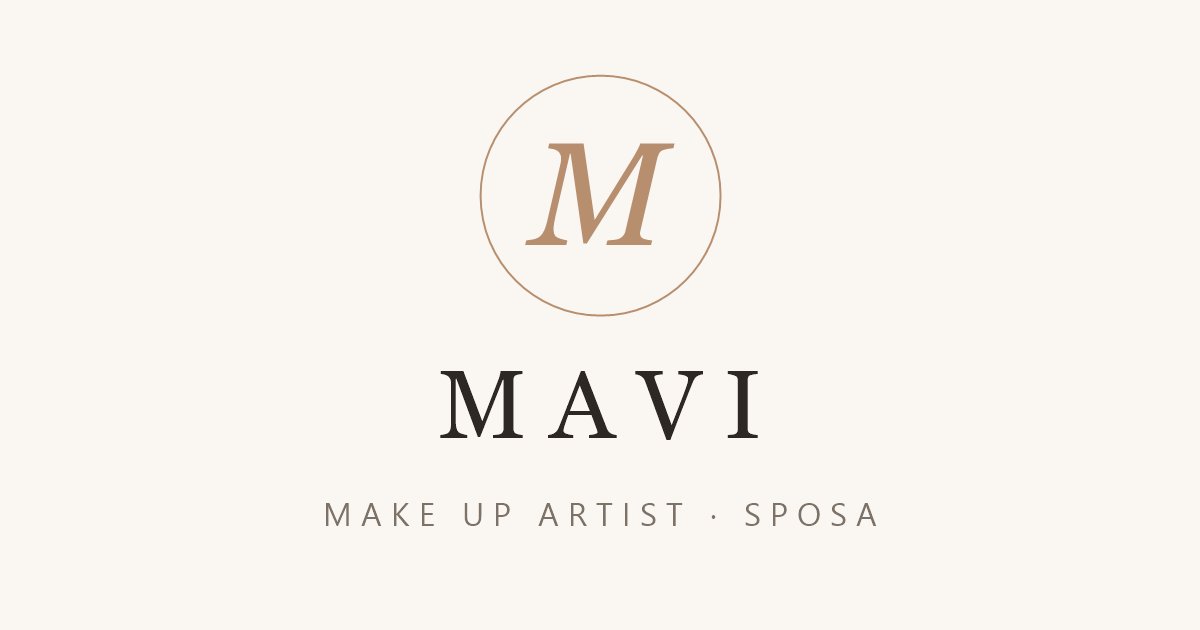
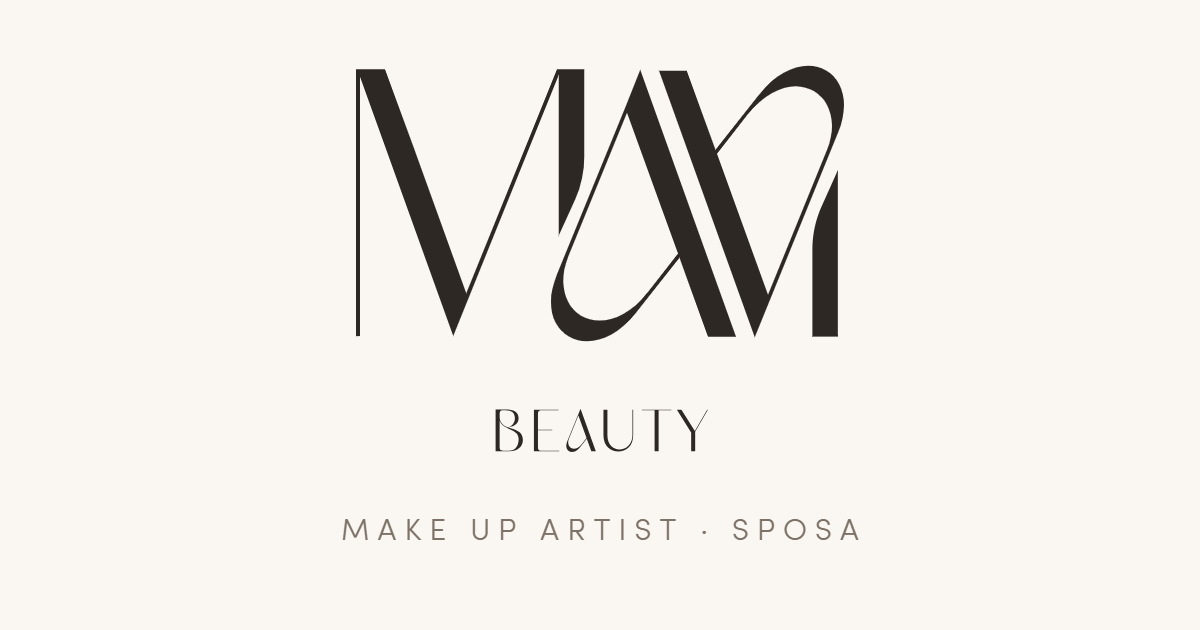
Applica il brand ufficiale MaVi Beauty: font e loghi
Font Nord (titoli), Sofia Pro (testi) e Ginger (accenti) al posto
di Cormorant/Jost, convertiti in woff2 e self-hosted su licenza
della cliente. Logo MaVi nell header e nella pagina in arrivo,
monogramma AV come favicon, og-image e apple-touch-icon rigenerate
col logo vero. Palette e stile invariati come richiesto.

diff --git a/css/style.css b/css/style.css
@@ -16,8 +16,11 @@
   --line:      #e6ddd1;
   --white:     #fffdfa;
 
-  --font-display: "Cormorant Garamond", Georgia, serif;
-  --font-body:    "Jost", "Segoe UI", sans-serif;
+  /* Font ufficiali brand (vedi css/fonts.css):
+     Nord = titoli · Sofia Pro = testi · Ginger = accenti grafici */
+  --font-display: "Nord", "Segoe UI", sans-serif;
+  --font-body:    "Sofia Pro", "Segoe UI", sans-serif;
+  --font-accent:  "Ginger", Georgia, serif;
 
   --maxw: 1120px;
   --ease: cubic-bezier(.22, .61, .36, 1);
@@ -41,8 +44,8 @@ ul { list-style: none; }
 
 h1, h2, h3 {
   font-family: var(--font-display);
-  font-weight: 500;
-  line-height: 1.15;
+  font-weight: 400;
+  line-height: 1.2;
 }
 
 .container {
@@ -122,13 +125,14 @@ h1, h2, h3 {
   justify-content: space-between;
 }
 
-.brand {
-  font-family: var(--font-display);
-  font-size: 1.5rem;
-  letter-spacing: .18em;
-  text-transform: uppercase;
+.brand { display: block; }
+.brand img {
+  height: 52px;
+  width: auto;
+  display: block;
+  transition: opacity .3s;
 }
-.brand span { color: var(--accent); }
+.brand:hover img { opacity: .8; }
 
 .nav-list {
   display: flex;
@@ -217,7 +221,8 @@ h1, h2, h3 {
   max-width: 12em;
 }
 .hero h1 em {
-  font-style: italic;
+  font-family: var(--font-accent);
+  font-style: normal;
   color: var(--accent);
 }
 .hero .lead { margin: 1.5rem auto 0; }
@@ -264,8 +269,7 @@ h1, h2, h3 {
   inset: 0;
   display: grid;
   place-items: center;
-  font-family: var(--font-display);
-  font-style: italic;
+  font-family: var(--font-accent);
   font-size: 1.05rem;
   color: rgba(46, 40, 37, .45);
   letter-spacing: .08em;
@@ -406,8 +410,7 @@ h1, h2, h3 {
   margin-bottom: .9rem;
 }
 .service-card .num {
-  font-family: var(--font-display);
-  font-style: italic;
+  font-family: var(--font-accent);
   color: var(--accent);
   font-size: 1rem;
   display: block;
@@ -451,8 +454,7 @@ h1, h2, h3 {
   background: var(--accent);
 }
 .timeline .year {
-  font-family: var(--font-display);
-  font-style: italic;
+  font-family: var(--font-accent);
   color: var(--accent);
   font-size: 1.1rem;
 }
@@ -466,10 +468,11 @@ h1, h2, h3 {
   margin-inline: auto;
 }
 .quote blockquote {
-  font-family: var(--font-display);
+  font-family: var(--font-body);
   font-style: italic;
-  font-size: clamp(1.5rem, 3.4vw, 2.2rem);
-  line-height: 1.4;
+  font-weight: 300;
+  font-size: clamp(1.4rem, 3vw, 1.9rem);
+  line-height: 1.5;
 }
 .quote cite {
   display: block;
@@ -531,7 +534,11 @@ h1, h2, h3 {
   max-width: 18em;
   margin-inline: auto;
 }
-.cta-band h2 em { font-style: italic; color: var(--accent-soft); }
+.cta-band h2 em {
+  font-family: var(--font-accent);
+  font-style: normal;
+  color: var(--accent-soft);
+}
 
 /* ---------- Footer ---------- */
 .site-footer {
@@ -566,35 +573,31 @@ h1, h2, h3 {
 .coming-inner { max-width: 34em; }
 
 .monogram {
-  width: 92px; height: 92px;
-  margin: 0 auto 2.2rem;
-  border: 1px solid var(--accent);
-  border-radius: 50%;
-  display: grid;
-  place-items: center;
-  font-family: var(--font-display);
-  font-size: 2.6rem;
-  font-style: italic;
-  color: var(--accent);
+  width: min(230px, 58vw);
+  margin: 0 auto 1.6rem;
   user-select: none;
   -webkit-user-select: none;
   -webkit-tap-highlight-color: transparent;
   cursor: default;
   transition: transform .2s var(--ease);
 }
-.monogram:active { transform: scale(.94); }
+.monogram img { width: 100%; display: block; }
+.monogram:active { transform: scale(.96); }
 
-.coming h1 {
-  font-size: clamp(2.2rem, 6vw, 3.6rem);
-  letter-spacing: .14em;
-  text-transform: uppercase;
+/* Testo solo per screen reader (il logo è l'elemento visivo) */
+.sr-only {
+  position: absolute;
+  width: 1px; height: 1px;
+  padding: 0; margin: -1px;
+  overflow: hidden;
+  clip: rect(0 0 0 0);
+  white-space: nowrap;
+  border: 0;
 }
-.coming h1 span { color: var(--accent); }
 
 .coming .tagline {
-  font-family: var(--font-display);
-  font-style: italic;
-  font-size: 1.3rem;
+  font-family: var(--font-accent);
+  font-size: 1.35rem;
   color: var(--muted);
   margin-top: .6rem;
 }
@@ -694,10 +697,11 @@ h1, h2, h3 {
   color: var(--accent-soft);
 }
 .testimonial p {
-  font-family: var(--font-display);
+  font-family: var(--font-body);
   font-style: italic;
-  font-size: 1.25rem;
-  line-height: 1.5;
+  font-weight: 300;
+  font-size: 1.08rem;
+  line-height: 1.6;
   flex: 1;
 }
 .testimonial footer {

diff --git a/css/fonts.css b/css/fonts.css
@@ -1,65 +1,60 @@
-/* Font self-hosted (subset latin) - generato da Google Fonts */
+/* ============================================================
+   Font ufficiali del brand MaVi Beauty (self-hosted).
+   Licenza d'uso della cliente — non redistribuire.
+   Dal brand manual:
+   - Ginger    → pochi elementi grafici (accenti, citazioni)
+   - Nord      → titoli ed elementi di rilievo
+   - Sofia Pro → testi e paragrafi
+   ============================================================ */
+
 @font-face {
-  font-family: 'Cormorant Garamond';
-  font-style: italic;
-  font-weight: 400;
-  font-display: swap;
-  src: url(../fonts/cormorant-garamond-italic-400.woff2) format('woff2');
-  unicode-range: U+0000-00FF, U+0131, U[phone redacted], U+02BB-02BC, U+02C6, U+02DA, U+02DC, U+0304, U+0308, U+0329, U+2000-206F, U+20AC, U+2122, U+2191, U+2193, U+2212, U+2215, U+FEFF, U+FFFD;
-}
-@font-face {
-  font-family: 'Cormorant Garamond';
-  font-style: italic;
-  font-weight: 500;
-  font-display: swap;
-  src: url(../fonts/cormorant-garamond-italic-500.woff2) format('woff2');
-  unicode-range: U+0000-00FF, U+0131, U[phone redacted], U+02BB-02BC, U+02C6, U+02DA, U+02DC, U+0304, U+0308, U+0329, U+2000-206F, U+20AC, U+2122, U+2191, U+2193, U+2212, U+2215, U+FEFF, U+FFFD;
-}
-@font-face {
-  font-family: 'Cormorant Garamond';
+  font-family: "Ginger";
   font-style: normal;
   font-weight: 400;
   font-display: swap;
-  src: url(../fonts/cormorant-garamond-normal-400.woff2) format('woff2');
-  unicode-range: U+0000-00FF, U+0131, U[phone redacted], U+02BB-02BC, U+02C6, U+02DA, U+02DC, U+0304, U+0308, U+0329, U+2000-206F, U+20AC, U+2122, U+2191, U+2193, U+2212, U+2215, U+FEFF, U+FFFD;
+  src: url(../fonts/ginger-normal-400.woff2) format("woff2");
+}
+
+@font-face {
+  font-family: "Nord";
+  font-style: normal;
+  font-weight: 400;
+  font-display: swap;
+  src: url(../fonts/nord-normal-400.woff2) format("woff2");
 }
 @font-face {
-  font-family: 'Cormorant Garamond';
+  font-family: "Nord";
   font-style: normal;
   font-weight: 500;
   font-display: swap;
-  src: url(../fonts/cormorant-garamond-normal-500.woff2) format('woff2');
-  unicode-range: U+0000-00FF, U+0131, U[phone redacted], U+02BB-02BC, U+02C6, U+02DA, U+02DC, U+0304, U+0308, U+0329, U+2000-206F, U+20AC, U+2122, U+2191, U+2193, U+2212, U+2215, U+FEFF, U+FFFD;
+  src: url(../fonts/nord-normal-500.woff2) format("woff2");
 }
+
 @font-face {
-  font-family: 'Cormorant Garamond';
-  font-style: normal;
-  font-weight: 600;
-  font-display: swap;
-  src: url(../fonts/cormorant-garamond-normal-600.woff2) format('woff2');
-  unicode-range: U+0000-00FF, U+0131, U[phone redacted], U+02BB-02BC, U+02C6, U+02DA, U+02DC, U+0304, U+0308, U+0329, U+2000-206F, U+20AC, U+2122, U+2191, U+2193, U+2212, U+2215, U+FEFF, U+FFFD;
-}
-@font-face {
-  font-family: 'Jost';
+  font-family: "Sofia Pro";
   font-style: normal;
   font-weight: 300;
   font-display: swap;
-  src: url(../fonts/jost-normal-300.woff2) format('woff2');
-  unicode-range: U+0000-00FF, U+0131, U[phone redacted], U+02BB-02BC, U+02C6, U+02DA, U+02DC, U+0304, U+0308, U+0329, U+2000-206F, U+20AC, U+2122, U+2191, U+2193, U+2212, U+2215, U+FEFF, U+FFFD;
+  src: url(../fonts/sofia-pro-normal-300.woff2) format("woff2");
 }
 @font-face {
-  font-family: 'Jost';
+  font-family: "Sofia Pro";
+  font-style: italic;
+  font-weight: 300;
+  font-display: swap;
+  src: url(../fonts/sofia-pro-italic-300.woff2) format("woff2");
+}
+@font-face {
+  font-family: "Sofia Pro";
   font-style: normal;
   font-weight: 400;
   font-display: swap;
-  src: url(../fonts/jost-normal-400.woff2) format('woff2');
-  unicode-range: U+0000-00FF, U+0131, U[phone redacted], U+02BB-02BC, U+02C6, U+02DA, U+02DC, U+0304, U+0308, U+0329, U+2000-206F, U+20AC, U+2122, U+2191, U+2193, U+2212, U+2215, U+FEFF, U+FFFD;
+  src: url(../fonts/sofia-pro-normal-400.woff2) format("woff2");
 }
 @font-face {
-  font-family: 'Jost';
+  font-family: "Sofia Pro";
   font-style: normal;
   font-weight: 500;
   font-display: swap;
-  src: url(../fonts/jost-normal-500.woff2) format('woff2');
-  unicode-range: U+0000-00FF, U+0131, U[phone redacted], U+02BB-02BC, U+02C6, U+02DA, U+02DC, U+0304, U+0308, U+0329, U+2000-206F, U+20AC, U+2122, U+2191, U+2193, U+2212, U+2215, U+FEFF, U+FFFD;
+  src: url(../fonts/sofia-pro-normal-500.woff2) format("woff2");
 }

diff --git a/index.html b/index.html
@@ -22,10 +22,12 @@
 
   <main class="coming">
     <div class="coming-inner">
-      <!-- Easter egg: 10 tap qui sopra aprono la modale password -->
-      <div class="monogram" id="monogram" aria-hidden="true">M</div>
+      <!-- Easter egg: 10 tap sul logo aprono la modale password -->
+      <div class="monogram" id="monogram">
+        <img src="img/logo-mavi-accent.svg" alt="" draggable="false">
+      </div>
 
-      <h1>Ma<span>vi</span></h1>
+      <h1 class="sr-only">MaVi Beauty — Make Up Artist</h1>
       <p class="tagline">Make Up Artist · Sposa</p>
 
       <div class="divider"></div>

diff --git a/chi-sono.html b/chi-sono.html
@@ -22,7 +22,7 @@
 
   <header class="site-header">
     <div class="container">
-      <a class="brand" href="home.html">Ma<span>vi</span></a>
+      <a class="brand" href="home.html"><img src="img/logo-mavi.svg" alt="MaVi Beauty"></a>
       <button class="nav-toggle" aria-label="Apri menu" aria-expanded="false">
         <span></span><span></span><span></span>
       </button>

diff --git a/contatti.html b/contatti.html
@@ -22,7 +22,7 @@
 
   <header class="site-header">
     <div class="container">
-      <a class="brand" href="home.html">Ma<span>vi</span></a>
+      <a class="brand" href="home.html"><img src="img/logo-mavi.svg" alt="MaVi Beauty"></a>
       <button class="nav-toggle" aria-label="Apri menu" aria-expanded="false">
         <span></span><span></span><span></span>
       </button>

diff --git a/faq.html b/faq.html
@@ -22,7 +22,7 @@
 
   <header class="site-header">
     <div class="container">
-      <a class="brand" href="home.html">Ma<span>vi</span></a>
+      <a class="brand" href="home.html"><img src="img/logo-mavi.svg" alt="MaVi Beauty"></a>
       <button class="nav-toggle" aria-label="Apri menu" aria-expanded="false">
         <span></span><span></span><span></span>
       </button>

diff --git a/home.html b/home.html
@@ -32,7 +32,7 @@
 
   <header class="site-header">
     <div class="container">
-      <a class="brand" href="home.html">Ma<span>vi</span></a>
+      <a class="brand" href="home.html"><img src="img/logo-mavi.svg" alt="MaVi Beauty"></a>
       <button class="nav-toggle" aria-label="Apri menu" aria-expanded="false">
         <span></span><span></span><span></span>
       </button>

diff --git a/portfolio.html b/portfolio.html
@@ -22,7 +22,7 @@
 
   <header class="site-header">
     <div class="container">
-      <a class="brand" href="home.html">Ma<span>vi</span></a>
+      <a class="brand" href="home.html"><img src="img/logo-mavi.svg" alt="MaVi Beauty"></a>
       <button class="nav-toggle" aria-label="Apri menu" aria-expanded="false">
         <span></span><span></span><span></span>
       </button>

diff --git a/privacy.html b/privacy.html
@@ -17,7 +17,7 @@
 
   <header class="site-header">
     <div class="container">
-      <a class="brand" href="home.html">Ma<span>vi</span></a>
+      <a class="brand" href="home.html"><img src="img/logo-mavi.svg" alt="MaVi Beauty"></a>
       <button class="nav-toggle" aria-label="Apri menu" aria-expanded="false">
         <span></span><span></span><span></span>
       </button>

diff --git a/servizi.html b/servizi.html
@@ -22,7 +22,7 @@
 
   <header class="site-header">
     <div class="container">
-      <a class="brand" href="home.html">Ma<span>vi</span></a>
+      <a class="brand" href="home.html"><img src="img/logo-mavi.svg" alt="MaVi Beauty"></a>
       <button class="nav-toggle" aria-label="Apri menu" aria-expanded="false">
         <span></span><span></span><span></span>
       </button>

diff --git a/README.md b/README.md
@@ -9,7 +9,9 @@ Riferimento di stile: [fiammaalborghetti.com](https://fiammaalborghetti.com) —
 
 Sito **statico puro**: HTML + CSS + JS vanilla, **nessun build step**, nessuna dipendenza da installare. Si apre e si deploya così com'è (GitHub Pages, Netlify, hosting FTP classico...).
 
-Font **self-hosted** (GDPR-friendly, nessuna chiamata a Google): **Cormorant Garamond** (titoli) + **Jost** (testo), file woff2 in `fonts/`, dichiarazioni in `css/fonts.css`.
+Font **ufficiali del brand, self-hosted** (GDPR-friendly, licenza della cliente): **Nord** (titoli), **Sofia Pro** (testi), **Ginger** (accenti grafici) — file woff2 in `fonts/`, dichiarazioni in `css/fonts.css`. Loghi ufficiali MaVi Beauty in `img/` (ricolorati con la palette del sito).
+
+⚠️ La cartella **`MAVI - Daniela/`** (brand kit sorgente: loghi, brand manual, font desktop) è **esclusa da git** (`.gitignore`): contiene font commerciali che non vanno pubblicati. Vive solo in locale — per averla su un altro PC va copiata a mano (drive/USB).
 
 ## Struttura
 
@@ -152,3 +154,4 @@ Fatte:
 - **2026-07-03** — Deploy attivo su `mavimakeup.it` (repo: `antoniopisaniello/mavi`). Un po' di ping-pong iniziale: primo deploy nella radice hosting (Percorso Home `/`), poi percorso duplicato (`public_html/mavimakeup.it/public_html`) perché Percorso Home e `server-dir` erano stati cambiati entrambi. Assetto finale: **Percorso Home dell'account FTP = `/mavimakeup.it/public_html`, `server-dir = ./`**. Pulizia manuale dal File Manager dei file finiti nei posti sbagliati.
 - **2026-07-03** — Fix menu mobile (burger a destra, overlay a schermo intero: il `backdrop-filter` sull'header ne faceva il containing block della nav fixed).
 - **2026-07-03** — Pacchetto migliorie: testimonianze in home (esempi), striscia Instagram, bottone WhatsApp flottante, pagina FAQ, slider prima/dopo nel portfolio, favicon + og-image + apple-touch-icon, font self-hosted (GDPR), privacy policy (bozza), robots.txt (chiuso fino al go-live) e sitemap.xml.
+- **2026-07-03** — Restyling col brand ufficiale (kit in `MAVI - Daniela/`, solo locale): font Nord/Sofia Pro/Ginger al posto di Cormorant/Jost, logo MaVi Beauty nell'header e nella pagina "in arrivo" (resta il bersaglio dell'easter egg), monogramma AV come favicon, og-image e apple-touch-icon rigenerate col logo vero. Colori e stile invariati su indicazione della cliente.